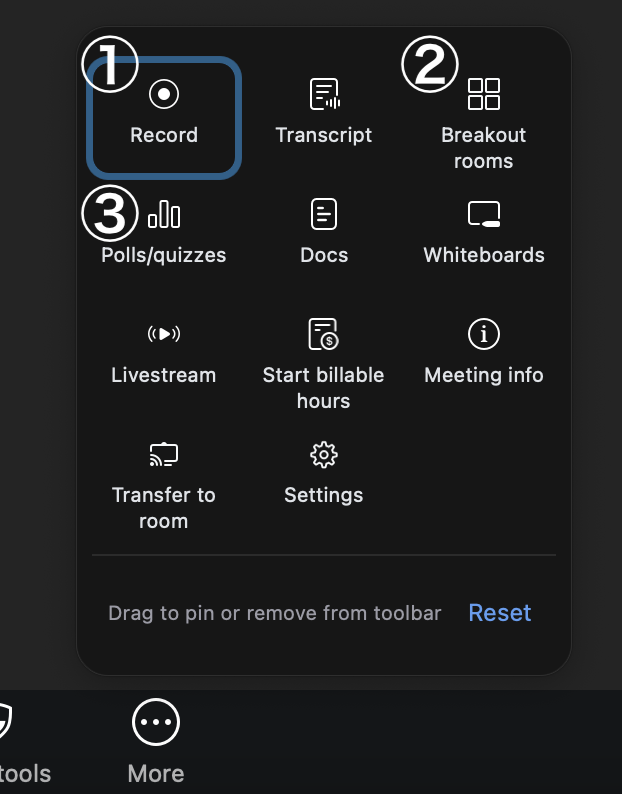
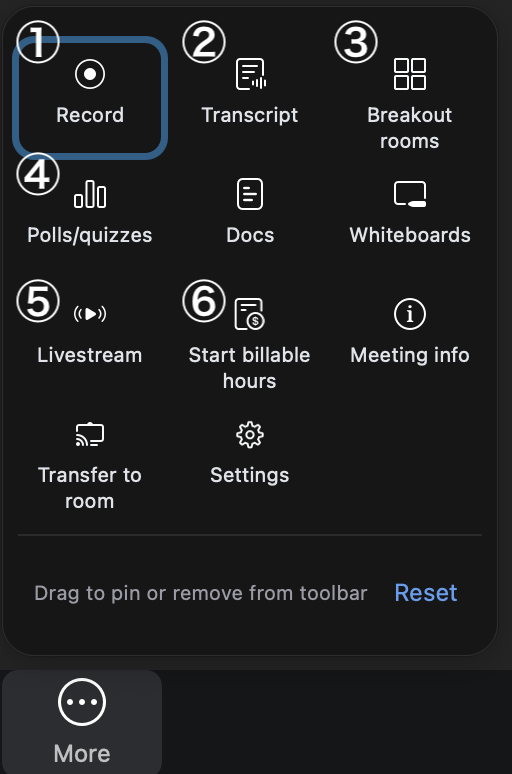
”英語版の修正2”

diff --git a/src/pages/zoom/usage/index.md b/src/pages/zoom/usage/index.md
@@ -17,8 +17,8 @@ breadcrumb:
 Zoomの画面にマウスカーソルを合わせると下にメニューが出てきます．  
   ![](./zoom_main_numbering.png)  
 メニューについて左から順にそれぞれ簡単に説明します（バージョンによってはメニュー項目の一部がない場合もあります）．
-  1. **マイクマーク** : これを押すことによってミュート（消音）にしたり，ミュートを解除できたりします．横にある ^（上向きの矢印）を押すとマイクに関する設定ができるようになります．
-  1. **ビデオマーク** : これを押すことによってビデオをオンやオフにできます．横にある ^（上向きの矢印）を押すとビデオに関する設定ができるようになります．
+  1. **オーディオ** : これを押すことによってミュート（消音）にしたり，ミュートを解除できたりします．横にある ^（上向きの矢印）を押すとマイクに関する設定ができるようになります．
+  1. **ビデオ** : これを押すことによってビデオをオンやオフにできます．横にある ^（上向きの矢印）を押すとビデオに関する設定ができるようになります．
   1. **参加者** : 参加者一覧を表示します．誰が参加しているかや，挙手している人の確認ができます．横にある ^（上向きの矢印）を押すとメールなどで招待を送れますが，参加者は基本的に会議室のURLを知っているため，招待機能を使う場面はあまり多くありません．
   1. **チャット** : テキストチャットを行います．
   1. **リアクション** : 「拍手」や「いいね」，「挙手」等のマークや，様々な絵文字を使用することで，反応を伝えられます．「挙手」は発言希望の合図としてよく使われます．

diff --git a/src/pages/en/zoom/usage/index.md b/src/pages/en/zoom/usage/index.md
@@ -100,7 +100,10 @@ Here is a brief description of the menus specific to the host.
   ![](./host_main_menu.png)
   1. **Record** : You can record the state of the meeting.
      * For details, please refer to "[How to use the recording feature](./recording/)".
+  1. **Transcript** : Records spoken words as text. Once the host starts this feature, participants can display them as subtitles or view the full transcript in a side panel.
   1. **Breakout rooms (setting required)** : Participants can be divided into subgroups. You can decide the number of people and assign them automatically, or you can assign them manually.
      * For details, please refer to "[How to use Breakout Rooms](./breakout/)".
   1. **Polls/Quizzes (setting required)** : Allows participants to respond to polls. Questions must be created in advance in a web browser. Click “Add question” to create one for the first time, or “Edit” to modify an existing one.
      * For details, please refer to "[Polls in Zoom](./poll/)".
+  1. **Livestream (Configuration Required)** : Streams the meeting's video and audio in real time to external streaming services like YouTube. Advanced configuration is required before use.
+  1. **Start billable hours**: A feature used to track time spent in meetings with clients as billable work hours. This is typically not used for university classes or meetings.
